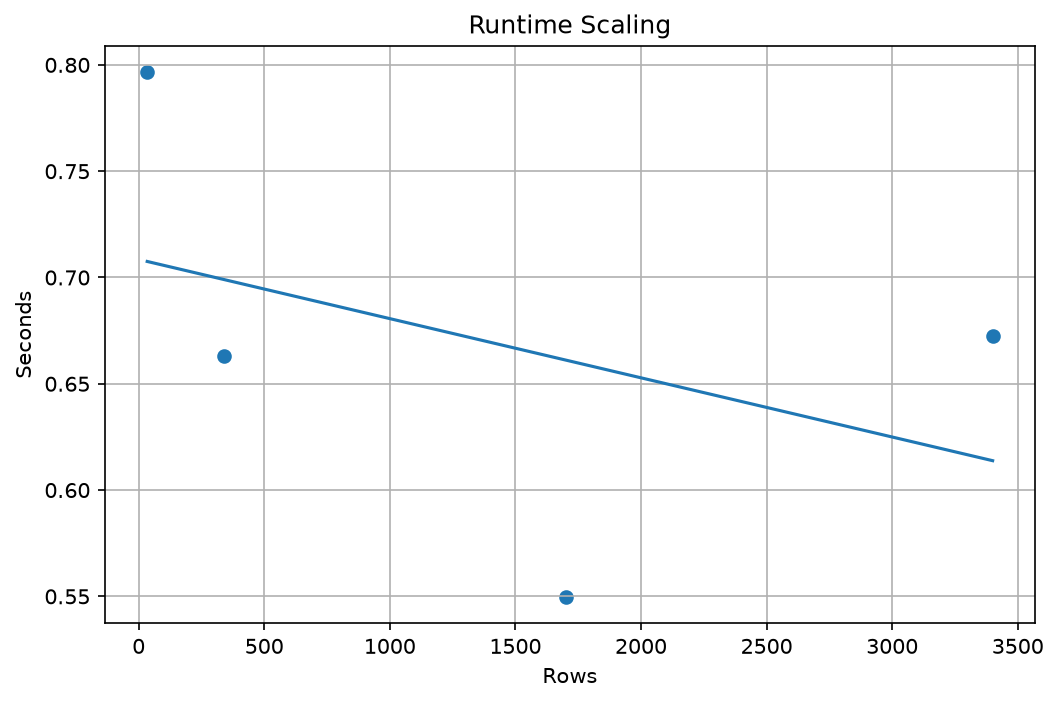
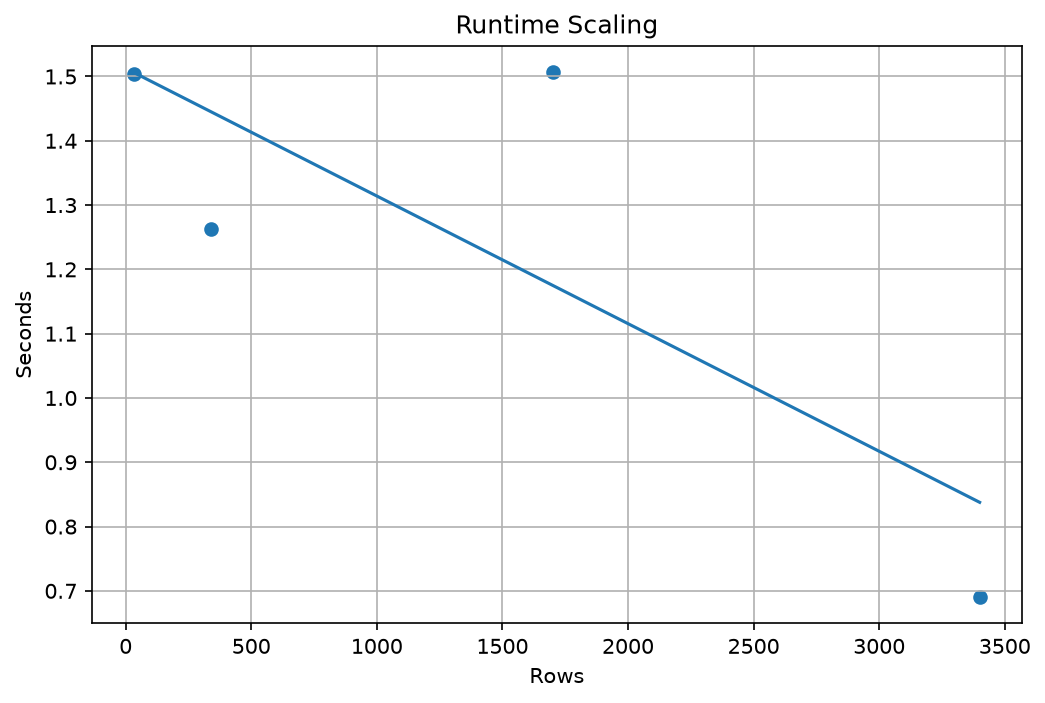
Scatterplot Function Added

diff --git a/main.py b/main.py
@@ -673,20 +673,6 @@ charts.plotlinegraph(
 # Histogram
 charts.plothistogram("AXSM Daily Log Returns","graphs/02_returns_histogram.png","Log Return","Count",p_px,35)
 
-"""
-## Market vs Model for Calls
-calls = p_opt[p_opt["type"] == "call"].sort_values("k")
-plt.figure(figsize=(10, 5))
-plt.plot(calls["k"], calls["mid"], marker="o", label="market mid")
-plt.plot(calls["k"], calls["bs"], marker="o", label="BS value")
-plt.title("AXSM Calls: Market vs Model")
-plt.xlabel("Strike")
-plt.ylabel("Option Value")
-plt.legend()
-plt.grid(True)
-plt.savefig("charts/03_calls_market_vs_model.png", dpi=150, bbox_inches="tight")
-plt.show()
-"""
 calls = p_opt[p_opt["type"] == "call"].sort_values("k")
 
 datalist=[
@@ -694,6 +680,8 @@ datalist=[
         {"xvals":calls["k"], "yvals":calls["bs"], "marker":"o", "label":"BS Value"},
 ]
 charts.plotmultiline("AXSM Calls: Market vs Model","charts/03_calls_market_vs_model.png","Strike", "Option Value",datalist)
+
+
 
 # %%
 # Implied Volatility by strike price
@@ -711,22 +699,18 @@ plt.grid(True)
 plt.savefig("graphs/04_implied_vol_by_strike.png", dpi=150, bbox_inches="tight")
 plt.show()
 
+
+
 # %%
 # Risk Label Chart
 risk_pd = p_opt.groupby(["type", "risk"]).size().reset_index(name="n")
 labels = risk_pd["type"] + " - " + risk_pd["risk"]
-charts.plotbargraph("Risk Labels by Option Type", "05_risk_labels.png", "Type and Risk", "Contracts", risk_pd["n"], labels)
+charts.plotbargraph("Risk Labels by Option Type", "graphs/05_risk_labels.png", "Type and Risk", "Contracts", risk_pd["n"], labels)
 
-"""
-plt.figure(figsize=(10, 5))
-plt.bar(labels, risk_pd["n"])
-plt.title("Risk Labels by Option Type")
-plt.xlabel("Type and Risk")
-plt.ylabel("Contracts")
-plt.xticks(rotation=45)
-plt.grid(True)
-plt.savefig("graphs/05_risk_labels.png", dpi=150, bbox_inches="tight")
-plt.show()
+
+d={"x":p_opt["be_dist"],"y": p_opt["itm_prob"]}
+charts.plotscatterplot("Break-even Distance vs ITM Probability","graphs/06_breakeven_vs_itm.png", "Break-even Distance", "ITM Probability", d)
+
 """
 # %%
 # Break Even Distance Vs ITM
@@ -738,7 +722,7 @@ plt.ylabel("ITM Probability")
 plt.grid(True)
 plt.savefig("graphs/06_breakeven_vs_itm.png", dpi=150, bbox_inches="tight")
 plt.show()
-
+"""
 # %%
 
 

diff --git a/charts/charts.py b/charts/charts.py
@@ -9,6 +9,11 @@ def plotbody(title, filename, figsize, xlab="time", ylab="Dollars"):
     plt.title(title)
     plt.show()
 
+def plotscatterplot(title, filename, xlab, ylab, data):
+    plotbody(title, filename,(10,5),xlab=xlab, ylab=ylab)
+    plt.scatter(data["x"], data["y"])
+    
+    plt.savefig("charts/06_breakeven_vs_itm.png", dpi=150, bbox_inches="tight")
 
 def plotlinegraph(title, filename, xlab, ylab, p_px):
     plotbody(title, filename, (12, 15), xlab=xlab, ylab=ylab)
